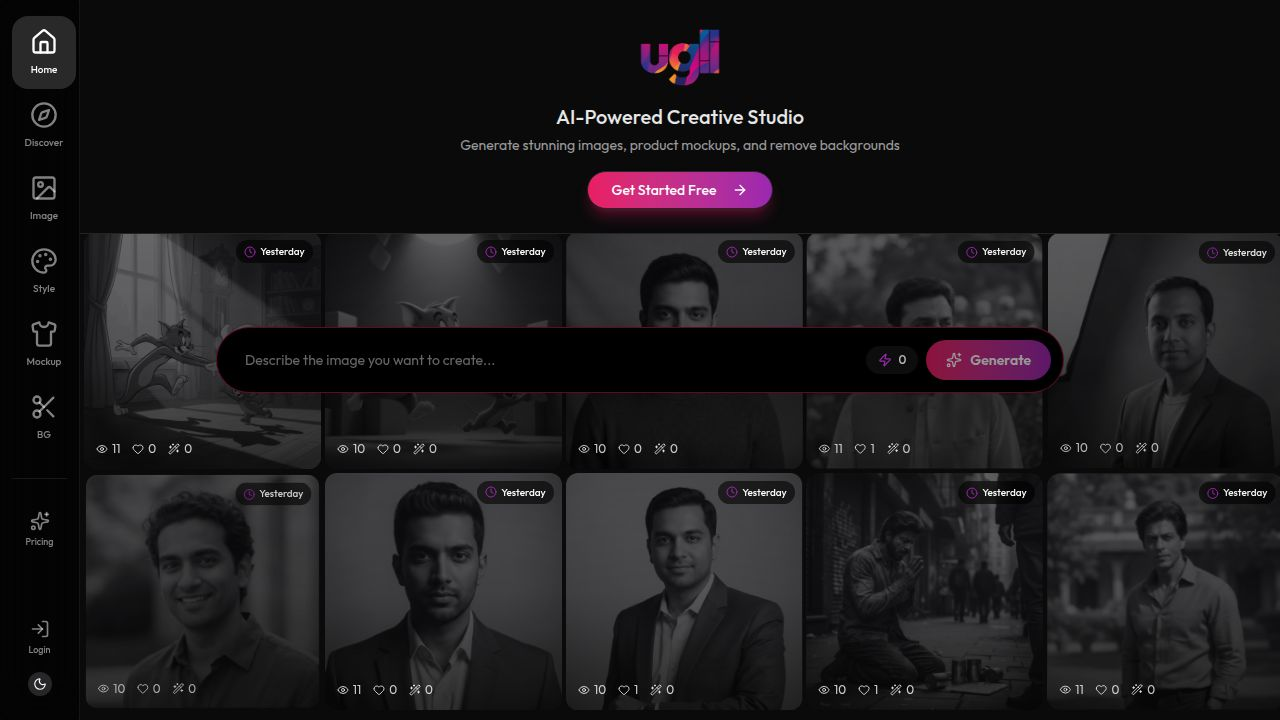
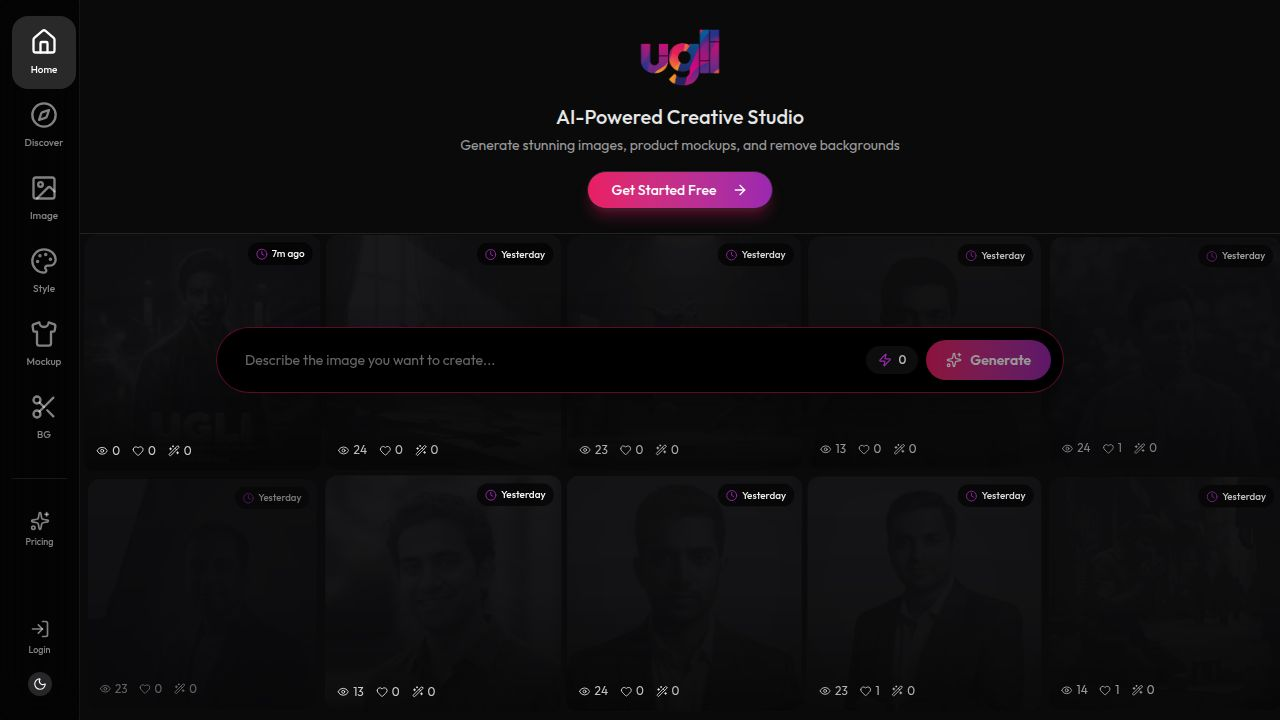
Increase image display size for better visual balance
Adjusted image dimensions to increase the uniform height of displayed images, making portrait aspect ratios appear larger and more visually balanced within the gallery.

Replit-Commit-Author: Agent
Replit-Commit-Session-Id: eec1a4dd-b341-4fa2-8341-387c0317c60f
Replit-Commit-Checkpoint-Type: intermediate_checkpoint
Replit-Commit-Event-Id: b2636ba5-eb71-4b9b-a4a6-ae2b1e72b22e
Replit-Commit-Screenshot-Url: https://storage.googleapis.com/screenshot-production-us-central1/038d2743-2a43-4c19-827e-eced61ebec4a/eec1a4dd-b341-4fa2-8341-387c0317c60f/xJflqwL
Replit-Helium-Checkpoint-Created: true

diff --git a/client/src/pages/image-generator.tsx b/client/src/pages/image-generator.tsx
@@ -1983,12 +1983,12 @@ export default function ImageGenerator() {
                       animate={{ opacity: 1, scale: 1 }}
                       onClick={() => setSelectedImage(gen)}
                       style={{
-                        height: '220px',
-                        width: gen.aspectRatio === "9:16" ? '124px' :
-                               gen.aspectRatio === "16:9" ? '391px' :
-                               gen.aspectRatio === "4:5" ? '176px' :
-                               gen.aspectRatio === "3:4" ? '165px' :
-                               '220px'
+                        height: '260px',
+                        width: gen.aspectRatio === "9:16" ? '146px' :
+                               gen.aspectRatio === "16:9" ? '462px' :
+                               gen.aspectRatio === "4:5" ? '208px' :
+                               gen.aspectRatio === "3:4" ? '195px' :
+                               '260px'
                       }}
                       className={cn(
                         "relative group rounded-xl overflow-hidden cursor-pointer bg-card border hover:shadow-lg transition-all flex-shrink-0",
